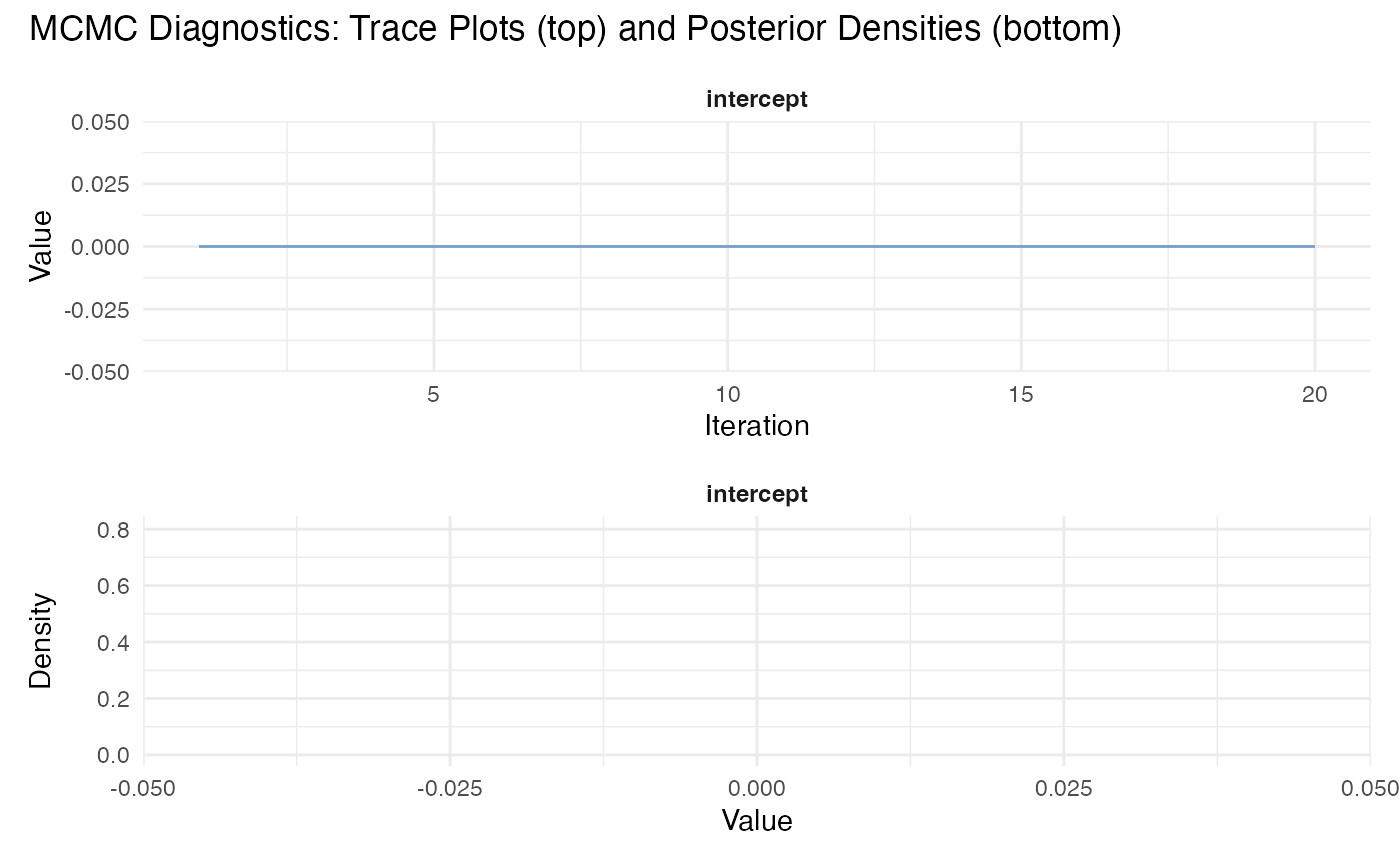
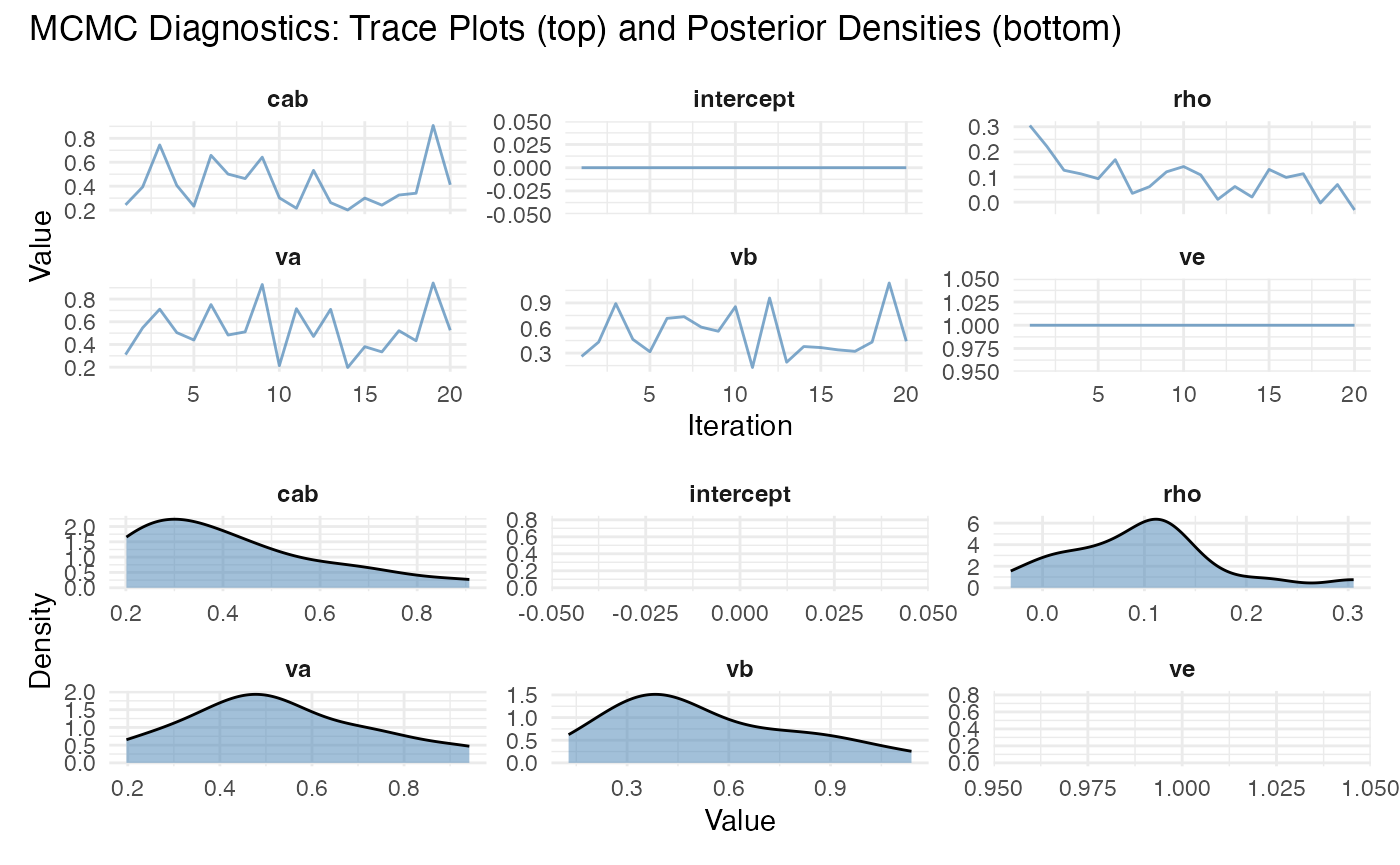
dyn eff vign mod

diff --git a/docs/articles/dynamic_effects.html b/docs/articles/dynamic_effects.html
@@ -286,7 +286,7 @@ posterior distribution.</p>
 <div class="sourceCode" id="cb5"><pre class="downlit sourceCode r">
 <code class="sourceCode R"><span></span>
 <span><span class="co"># Plot trace of parameters</span></span>
-<span><span class="fu"><a href="../reference/trace_plot.html">trace_plot</a></span><span class="op">(</span><span class="va">fit_dynamic</span>, params <span class="op">=</span> <span class="st">"beta"</span><span class="op">)</span></span></code></pre></div>
+<span><span class="fu"><a href="../reference/trace_plot.html">trace_plot</a></span><span class="op">(</span><span class="va">fit_dynamic</span><span class="op">)</span></span></code></pre></div>
 <p><img src="dynamic_effects_files/figure-html/unnamed-chunk-3-3.png" width="700"></p>
 </div>
 <div class="section level3">
@@ -619,32 +619,6 @@ residuals</li>
 <span><span class="co">#&gt; [4,] -0.002311782</span></span>
 <span><span class="co">#&gt; [5,] -0.006409589</span></span></code></pre></div>
 </div>
-</div>
-<div class="section level2">
-<h2 id="convergence-diagnostics">Convergence Diagnostics<a class="anchor" aria-label="anchor" href="#convergence-diagnostics"></a>
-</h2>
-<p>Dynamic models typically require:</p>
-<ul>
-<li>Longer burn-in (≥ 1000 iterations)</li>
-<li>More samples (≥ 20000 post burn-in)</li>
-<li>Careful monitoring of
-<math display="inline" xmlns="http://www.w3.org/1998/Math/MathML"><semantics><mi>ρ</mi><annotation encoding="application/x-tex">\rho</annotation></semantics></math>
-and
-<math display="inline" xmlns="http://www.w3.org/1998/Math/MathML"><semantics><msup><mi>σ</mi><mn>2</mn></msup><annotation encoding="application/x-tex">\sigma^2</annotation></semantics></math>
-parameters</li>
-</ul>
-<div class="sourceCode" id="cb7"><pre class="downlit sourceCode r">
-<code class="sourceCode R"><span><span class="co"># Check effective sample sizes</span></span>
-<span><span class="kw"><a href="https://rdrr.io/r/base/library.html" class="external-link">library</a></span><span class="op">(</span><span class="va">coda</span><span class="op">)</span></span>
-<span><span class="va">mcmc_samples</span> <span class="op">&lt;-</span> <span class="fu"><a href="https://rdrr.io/pkg/coda/man/mcmc.html" class="external-link">as.mcmc</a></span><span class="op">(</span><span class="va">fit_dynamic</span><span class="op">$</span><span class="va">BETA</span><span class="op">)</span></span>
-<span><span class="fu"><a href="https://rdrr.io/pkg/coda/man/effectiveSize.html" class="external-link">effectiveSize</a></span><span class="op">(</span><span class="va">mcmc_samples</span><span class="op">)</span></span>
-<span></span>
-<span><span class="co"># Trace plots for dynamic parameters (if available)</span></span>
-<span><span class="co"># par(mfrow = c(2, 2))</span></span>
-<span><span class="co"># if(!is.null(fit_dynamic$rho_uv)) plot(fit_dynamic$rho_uv, type = "l", main = "rho_uv trace")</span></span>
-<span><span class="co"># if(!is.null(fit_dynamic$sigma_uv)) plot(fit_dynamic$sigma_uv, type = "l", main = "sigma_uv trace")</span></span>
-<span><span class="co"># if(!is.null(fit_dynamic$rho_ab)) plot(fit_dynamic$rho_ab, type = "l", main = "rho_ab trace")</span></span>
-<span><span class="co"># if(!is.null(fit_dynamic$sigma_ab)) plot(fit_dynamic$sigma_ab, type = "l", main = "sigma_ab trace")</span></span></code></pre></div>
 </div>
 <div class="section level2">
 <h2 id="references">References<a class="anchor" aria-label="anchor" href="#references"></a>

diff --git a/docs/reference/rUV_sym_fc.html b/docs/reference/rUV_sym_fc.html
@@ -127,7 +127,7 @@ diagonal matrix of eigenvalues of <code>U%*%t(V)</code>.</p>
 <span class="r-out co"><span class="r-pr">#&gt;</span>     }</span>
 <span class="r-out co"><span class="r-pr">#&gt;</span>     list(U = U, V = U %*% L)</span>
 <span class="r-out co"><span class="r-pr">#&gt;</span> }</span>
-<span class="r-out co"><span class="r-pr">#&gt;</span> &lt;bytecode: 0x123a51430&gt;</span>
+<span class="r-out co"><span class="r-pr">#&gt;</span> &lt;bytecode: 0x14da29fe8&gt;</span>
 <span class="r-out co"><span class="r-pr">#&gt;</span> &lt;environment: namespace:lame&gt;</span>
 <span class="r-in"><span></span></span>
 </code></pre></div>